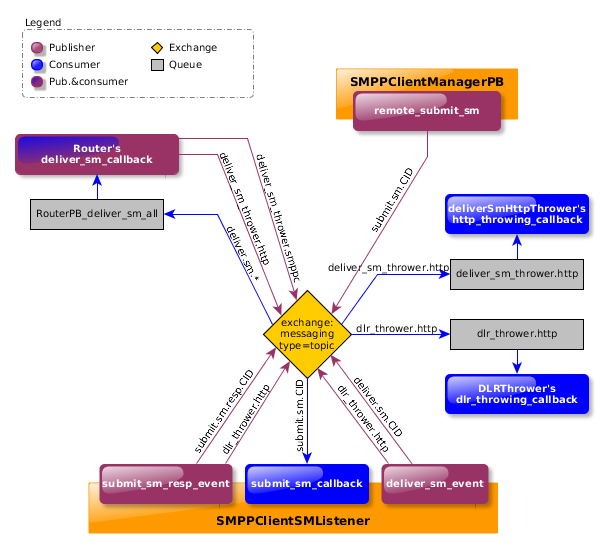
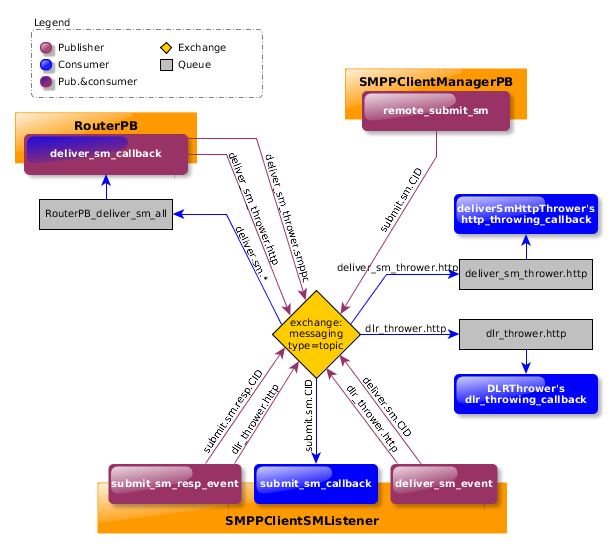
Completed routing documentation

diff --git a/misc/doc/sources/conf.py b/misc/doc/sources/conf.py
@@ -31,7 +31,7 @@ master_doc = 'index'
 
 # General information about the project.
 project = u'Jasmin gateway'
-copyright = u'2014, Jasmin'
+copyright = u'2015, Jasmin'
 
 # The version info for the project you're documenting, acts as replacement for
 # |version| and |release|, also used in various other places throughout the

diff --git a/misc/doc/sources/routing/index.rst b/misc/doc/sources/routing/index.rst
@@ -2,30 +2,237 @@
 The message router
 ##################
 
-Introduction text here
+The message router is Jasmin's decision making component for routing every type of exchanged message through the gateway:
+
+#. MO Messages (deliver_sm)
+#. MT Messages (submit_sm)
+
+The router is provisioned through:
+
+* Perspective broker interface (python programmatic API)
+* jCli modules: :ref:`morouter_manager` and :ref:`mtrouter_manager`
+
+Each time a message is requiring a route decision the following process is executed:
 
 Process flow
 ************
 
+.. figure:: /resources/routing/routing-process.png
+   :alt: MO and MT routing process flow
+   :align: Center
+   
+   Routing process flow
+
+There's one **MORoutingTable** and one **MTRoutingTable** objects holding respective routes for each direction (MT or MO), 
+these are **Route** objects that hold one or many **Filter** (s) objects and one destination **Connector** (or many connectors 
+in some specific cases, c.f. :ref:`Route_multiple_con`).
+
+As explained by the above routing process flow figure, for each message and depending on its direction, a routing table is 
+loaded and an iterative testing is run in order to select a final destination connector or to reject (returning no connector) it, 
+routes are selected in descendant order, and their respective filter objects are tested against the **Routable** object (It is an 
+extension of the low-level SMPP PDU object representing a message, more information in :ref:`Route_Routable`).
+
 Examples
 ========
+
+MO Routing
+----------
+
+Having the below MO routing table set through a jCli console session::
+
+   jcli : morouter -l
+   #MO Route order   Type                    Connector ID(s)                  Filter(s)                                                       
+   #30               StaticMORoute           http_3                           <DestinationAddrFilter (dst_addr=^\+33\d+)>                     
+   #20               RandomRoundrobinMORoute http_1, http_2                   <DateIntervalFilter (2015-06-01,2015-08-31)>, <TimeIntervalFilter (08:00:00,18:00:00)>
+   #0                DefaultRoute            http_def                                                                                         
+   Total MO Routes: 3
+
+The following routing cases are considered:
+
+* MO message is routed to http_3 **if**:
+
+  * Its destination address matches the regular expression "^\+33\d+"
+
+* MO message is routed to http_1 **OR** http_2 **if**:
+
+  * Its received in summer months (June, July and August) of year 2015 and in working hours interval (8pm to 6am)
+
+* MO message is routed to http_def **if**:
+
+  * None of the above routes are matched (fallback / default route)
+
+MT Routing
+----------
+
+Having the below MT routing table set through a jCli console session::
+
+   jcli : mtrouter -l
+   #MT Route order   Type                    Connector ID(s)                  Filter(s)                                                       
+   #100              RandomRoundrobinMTRoute smpp_1, smpp_2                   <DestinationAddrFilter (dst_addr=^\+33\d+)>                     
+   #91               StaticMTRoute           smpp_4                           <GroupFilter (gid=G2)>, <TimeIntervalFilter (08:00:00,18:00:00)>
+   #90               StaticMTRoute           smpp_3                           <GroupFilter (gid=G2)>                                          
+   Total MT Routes: 3
+
+The following routing cases are considered:
+
+* MT message is routed to smpp_1 **OR** smpp_2 **if**:
+
+  * Its destination address matches the regular expression "^\+33\d+"
+
+* MT message is routed to smpp_4 **if**:
+
+  * Its sent by a user in group G2 and in working hours interval (8pm to 6am)
+
+* MT message is routed to smpp_3 **if**:
+
+  * Its sent by a user in group G2
+
+.. note:: The route order is very important: if we swap last both routes (#90 and #91) we will run into a shadowing route where 
+   all MT messages sent by a user in group G2 will be routed to smpp_3, no matter what time of the day it is.
+
+.. note:: In this example, there's no DefaultRoute, this will lead to message rejection if none of the configured routes are matched.
 
 Router components 
 *****************
 
-.. _routable:
+The router components are mainly python objects having the unique responsibility of routing messages to Jasmin connectors.
+
+.. _Route_Routable:
 
 Routable
 ========
 
+The **Routable** class is extended by child classes to hold necessary information about the message to be *routed*.
+
+.. figure:: /resources/routing/Routable.png
+   :alt: jasmin.routing.Routables.*
+   :align: Center
+   
+   jasmin.routing.Routables.*
+
+The **SimpleRoutablePDU** is only used for Jasmin unit testing, **RoutableSubmitSm** and **RoutableDeliverSm** are used depending 
+on the message direction:
+
+* MO: **RoutableDeliverSm**
+* MT: **RoutableSubmitSm**
+
+.. list-table:: **RoutableSubmitSm** attributes
+   :widths: 10 10 80
+   :header-rows: 1
+
+   * - Attribute
+     - Type
+     - Description
+   * - PDU
+     - jasmin.vendor.smpp.pdu.pdu_types.PDURequest
+     - The SMPP submit_sm PDU
+   * - user
+     - jasmin.routing.jasminApi.User
+     - Jasmin user sending the message
+   * - date_time
+     - datetime.datetime
+     - Date & time of message send request
+
+.. list-table:: **RoutableDeliverSm** attributes
+   :widths: 10 10 80
+   :header-rows: 1
+
+   * - Attribute
+     - Type
+     - Description
+   * - PDU
+     - jasmin.vendor.smpp.pdu.pdu_types.PDURequest
+     - The SMPP deliver_sm PDU
+   * - connector
+     - jasmin.routing.jasminApi.Connector
+     - Jasmin origin connector of the message
+   * - date_time
+     - datetime.datetime
+     - Date & time of message reception
+
 Connector
 =========
+
+The **Connector** class is extended by child classes to represent concrete HTTP or SMPP Client connectors.
+
+.. figure:: /resources/routing/Connector.png
+   :alt: jasmin.routing.jasminApi.Connector and childs
+   :align: Center
+   
+   jasmin.routing.jasminApi.Connector and childs
 
 Filter
 ======
 
+The **Filter** class is extended by child classes to define specific filters which are run by Jasmin router to match a 
+desired **Routable**, every filter have a public **match(routable)** method returning a boolean value (*True* if the filter 
+matches the given **Routable**).
+
+As explained, filters provide an advanced and customizable method to match for routables and decide which route to consider, the 
+figure below shows the **Filter** implementations provided by Jasmin, you can extend the **Filter** class and build a new filter 
+of your own.
+
+The **forRoutes** attribute indicates the filter-route compatibility, as some filters are not suitable for both MO and MT routes like 
+the examples below:
+
+* **UserFilter** and **GroupFilter**: MO Messages are not identified by a user or a group, they are received through a connector
+* **ConnectorFilter**: MT Messages are not coming from a connector, they are sent by a known user/group.
+
+.. figure:: /resources/routing/Filter.png
+   :alt: jasmin.routing.Filters.*
+   :align: Center
+   
+   jasmin.routing.Filters.*
+
 Route
 =====
 
+A **Route** class holds one or many filters, the **matchFilters(routable)** method is called to match the given routable against 
+every filter of the **Route** (using *AND* operation when there's many filters), if the matching succeed, the Jamsin router will ask 
+for the **Connector** to consider by calling **getConnector()** method which will return back the **Route** 's connector.
+
+.. figure:: /resources/routing/Route.png
+   :alt: jasmin.routing.Routes.*
+   :align: Center
+   
+   jasmin.routing.Routes.*
+
+Static and default routes are the simplest implemented routes, the difference between them is:
+
+* **DefaultRoute** 's **matchFilter()** method will always return True, it is usually a fallback route matching any **Routable**
+* **StaticMORoute** and **StaticMTRoute** will return one **Connector** after matching the filters with **matchFilters(routable)** method
+
+There's a lot of things you can do by extending the **Route** class, here's a bunch of possibilities:
+
+* *Failover route*: Will always return the same connector when it is up, and will fail over/back between master and backup connectors depending on 
+  their status
+* *Least cost routing*: Implement a message rating system to always return the least cost route for a given message
+* *Best quality routing*: Implement a connector scoring system to always return the best quality route for a given message
+
+.. _Route_multiple_con:
+
+Multiple connectors
+-------------------
+
+When extending **Route** class, it is possible to customize the behavior of the route and that's what **RoundrobinMORoute** and **RoundrobinMTRoute** 
+do, they are initially provisioned with a set of connectors, and the **getConnector()** method is overloaded to return a random connector from it; 
+this can be a basic usage of  a load balancer route.
+
 RoutingTable
 ============
+
+The **RoutingTable** class is extended by destination-specific child classes (MO or MT), each class provide a **Route** provisioning api:
+
+* **add(route, order)**: Will add a new route at a given order, will replace an older route having the same order
+* **remove(order)**: Will remove the route at the given order
+* **getAll()**: Will return all the provisioned routes
+* **flush()**: Will remove all provisioned routes
+
+The **getConnectorFor(routable)** will get the right route to consider for a given routable, this method will iterate through all the provisioned 
+routes in descendant order to call their respective **matchFilters(routable)** method. 
+
+.. figure:: /resources/routing/RoutingTable.png
+   :alt: jasmin.routing.RoutingTables.*
+   :align: Center
+   
+   jasmin.routing.RoutingTables.*

diff --git a/misc/doc/sources/apis/ja-http/index.rst b/misc/doc/sources/apis/ja-http/index.rst
@@ -242,7 +242,7 @@ Receiving SMS-MO
 ****************
 
 **SMS-MO** incoming messages (**M**\obile **O**\riginated) are forwarded by Jasmin to defined URLs using simple **HTTP GET/POST**, the forwarding is 
-made by *deliverSmHttpThrower* service, and the URL of the receiving endpoint is selected through a route checking process.
+made by *deliverSmHttpThrower* service, and the URL of the receiving endpoint is selected through a route checking process (c.f. :doc:`/routing/index`).
 
 Receiving endpoint is a third party application which acts on the messages received and potentially generates replies, (:ref:`httpccm_manager` for more details about 
 HTTP Client connector management).

diff --git a/misc/doc/sources/index.rst b/misc/doc/sources/index.rst
@@ -1,6 +1,7 @@
 ##################################
 The Jasmin Open source SMS gateway
 ##################################
+
 Jasmin is an open-source SMS Gateway with many enterprise-class features, Jasmin is built to be 
 easily customized to meet the specific needs of messaging exchange growing business.
 
